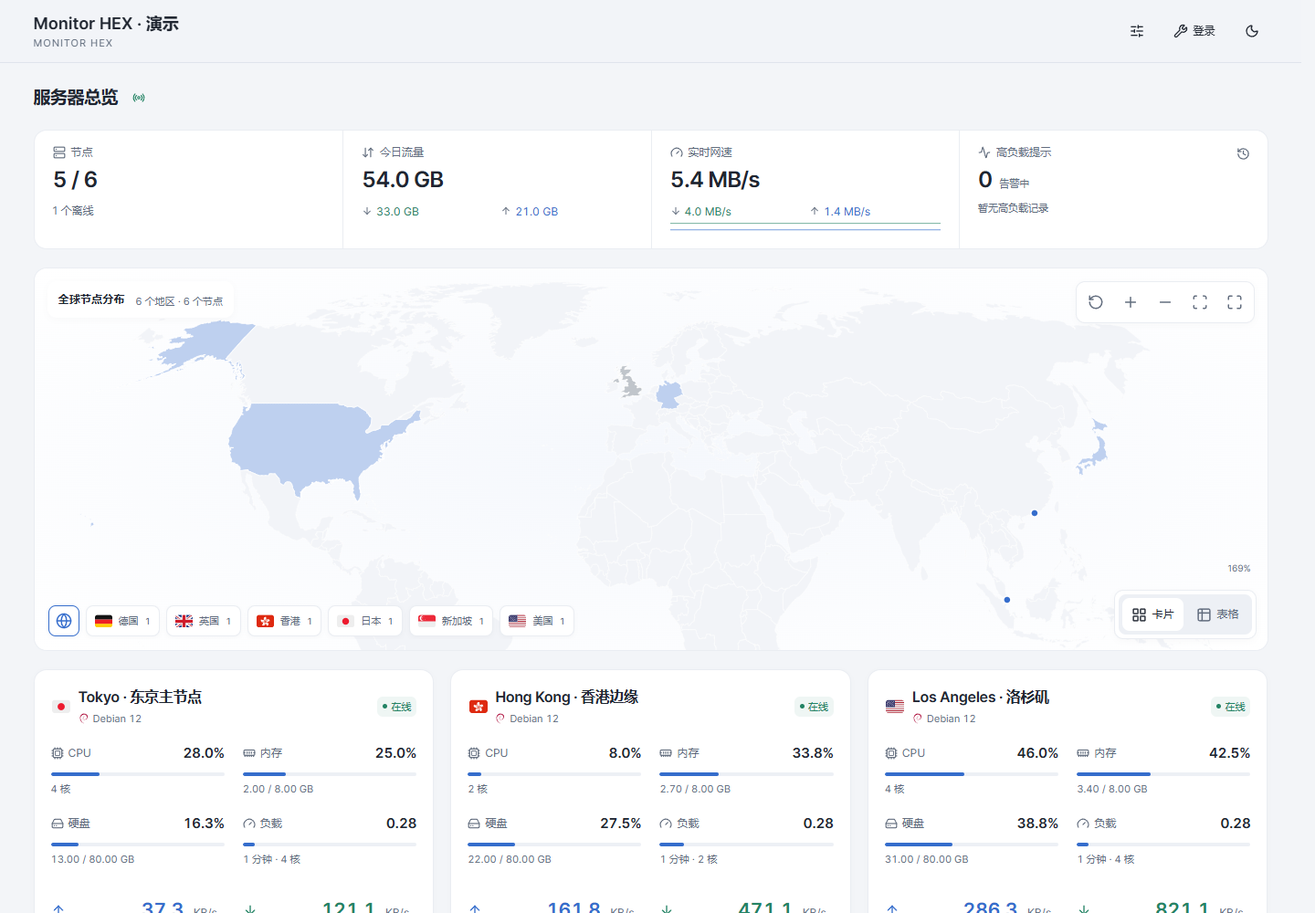
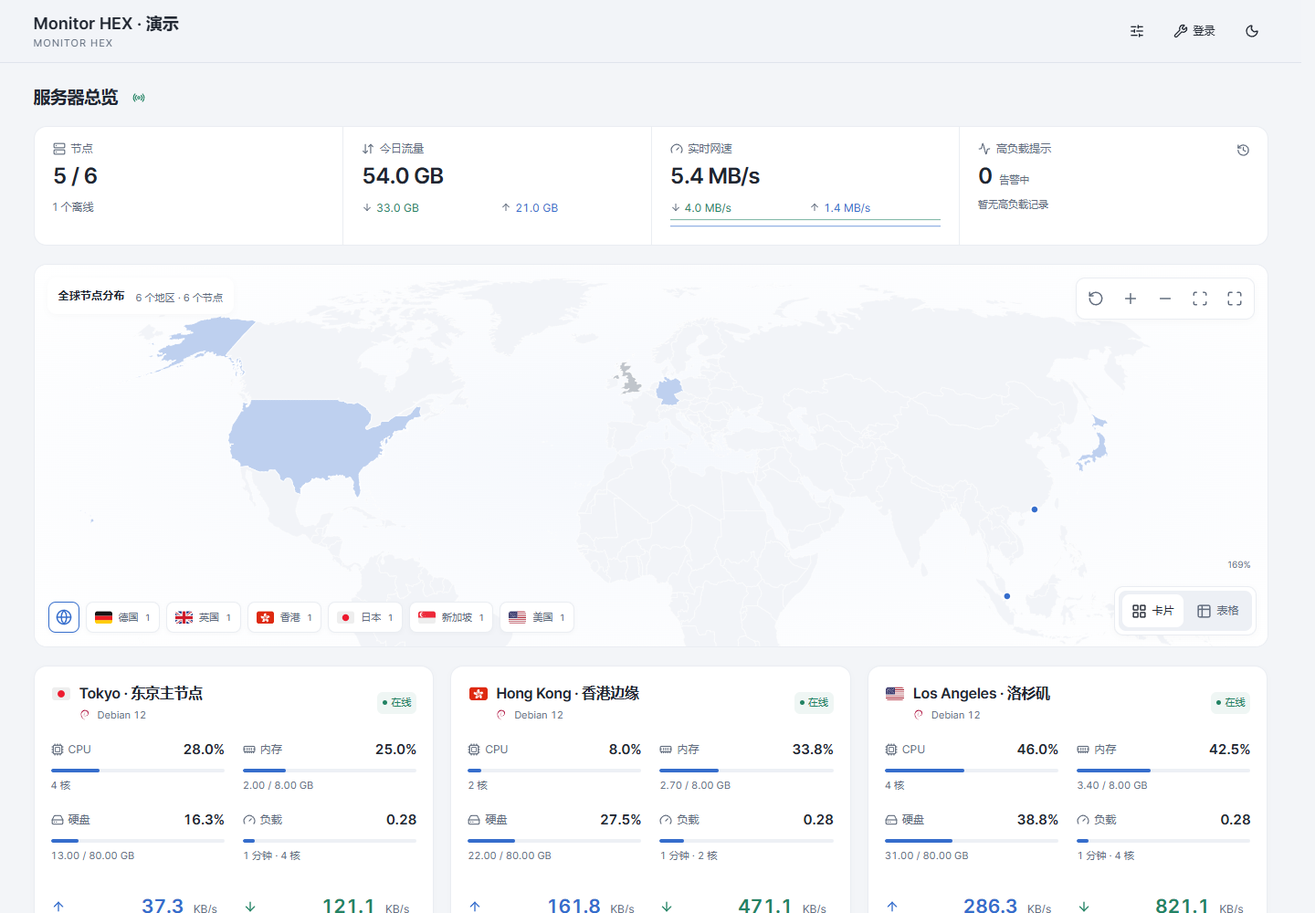
Add scoped display presets and refine settings usability for v0.0.15

diff --git a/src/components/Preferences.tsx b/src/components/Preferences.tsx
@@ -1,8 +1,17 @@
 import {Select} from '@/components/ui/select'
 import { tr, getLanguage, subscribeLanguage, setLanguage } from '../lib/i18n.ts'
-import {X, Circle, Minus, BarChart3, Hash, Rows2, Rows3} from 'lucide-react';
+import {X, Check, Circle, Minus, BarChart3, Hash, Rows2, Rows3} from 'lucide-react';
 import { useState, useRef, useEffect, useSyncExternalStore } from 'react';
-import { palettes, graphStyles, moduleLabels, cardInfoLabels, type DisplayPatch, parsePreferences, safeBackground, type Preferences as Prefs } from '@/lib/appearance';
+import { palettes, graphStyles, moduleLabels, cardInfoLabels, type CardInfo, defaultCardInfo, type DisplayPatch, parsePreferences, safeBackground, type Preferences as Prefs } from '@/lib/appearance';
+const slimCardInfo: CardInfo = {...defaultCardInfo,connections:false,uptime:false};
+function InfoPresets({value,onChange,mobile=false}:{value:CardInfo;onChange:(next:CardInfo)=>void;mobile?:boolean}) {
+    const matches=(preset:CardInfo)=>Object.keys(defaultCardInfo).every(key=>value[key as keyof CardInfo]===preset[key as keyof CardInfo]);
+    const full=matches(defaultCardInfo),slim=matches(slimCardInfo);
+    return <div className="info-presets"><div className="preset-heading"><span>{tr("显示预设")}</span><small>{full?tr("完整"):slim?tr("精简"):tr("自定义")}</small></div><div role="group" aria-label={mobile?tr("手机显示预设"):tr("通用显示预设")}>
+      <button aria-pressed={full} onClick={()=>onChange({...defaultCardInfo})}><span>{full&&<Check size={14}/ >}{tr("完整")}</span><small>{tr("显示全部辅助信息")}</small></button>
+      <button aria-pressed={slim} onClick={()=>onChange({...slimCardInfo})}><span>{slim&&<Check size={14}/ >}{tr("精简")}</span><small>{tr("隐藏连接数与在线时长")}</small></button>
+    </div></div>;
+}
 function BackgroundInput({ value, onChange }: {
     value: string;
     onChange: (url: string) => void;
@@ -43,24 +52,18 @@ export function Preferences({ onClose, value, onChange, onGraphChange, onDisplay
     return <dialog ref={dialog} className="settings-drawer" aria-label={tr("外观设置")} onCancel={onClose}><section className="preferences" aria-label={tr("外观设置")}>
     <div className="settings-top"><h2>{tr("外观设置")}</h2><button aria-label={tr("关闭设置")} title={tr("关闭设置")} onClick={onClose}><X size={20}/></button></div>
     <div className="settings-language"><span>语言 / Language</span><div role="group" aria-label="Language / 语言"><button lang="zh-CN" aria-pressed={language==='zh'} onClick={()=>setLanguage('zh')}>简体中文</button><button lang="en" aria-pressed={language==='en'} onClick={()=>setLanguage('en')}>English</button></div></div>
-    <p className="preferences-note">{tr("即时预览；未单独修改的选项跟随站点默认")}</p>
-    <nav className="settings-nav" aria-label={tr("设置分类")}><button onClick={()=>jump('appearance')}>{tr("外观")}</button><button onClick={()=>jump('home')}>{tr("显示内容")}</button><button onClick={()=>jump('alerts')}>{tr("提醒")}</button></nav>
-    <fieldset data-settings="appearance"><legend>{tr("全局外观")}</legend><div className="preference-grid"><div className="visual-preference"><span>{tr("主题配色")}</span><div className="palette-options" role="group" aria-label={tr("主题配色")}>{Object.entries(palettes).map(([k,v],i)=><button key={k} title={tr(v)} aria-label={tr(v)} aria-pressed={value.palette===k} style={{'--swatch':['#356dcc','#167e90','#b86b3e','#238364','#8664c5','#b45289'][i]} as React.CSSProperties} onClick={()=>patch({palette:k as Prefs['palette']})}><i/></button>)}</div></div>
+    <p className="preferences-note">{tr("仅保存在当前浏览器；未修改的选项跟随站点默认。")}</p>
+    <nav className="settings-nav" aria-label={tr("设置分类")}><button onClick={()=>jump('appearance')}>{tr("外观")}</button><button onClick={()=>jump('card-info')}>{tr("显示内容")}</button><button onClick={()=>jump('alerts')}>{tr("提醒")}</button></nav>
+    <fieldset data-settings="appearance"><legend>{tr("常用外观")}</legend><div className="preference-grid"><div className="visual-preference"><span>{tr("主题配色")}</span><div className="palette-options" role="group" aria-label={tr("主题配色")}>{Object.entries(palettes).map(([k,v],i)=><button key={k} title={tr(v)} aria-label={tr(v)} aria-pressed={value.palette===k} style={{'--swatch':['#356dcc','#167e90','#b86b3e','#238364','#8664c5','#b45289'][i]} as React.CSSProperties} onClick={()=>patch({palette:k as Prefs['palette']})}><i/></button>)}</div></div>
       <label>{tr("明暗模式")}<Select aria-label={tr("明暗模式")} value={value.appearance} onChange={e => patch({ appearance: e.target.value as Prefs['appearance'] })}><option value="system">{tr("跟随系统")}</option><option value="light">{tr("浅色")}</option><option value="dark">{tr("深色")}</option></Select></label>
-      <div className="visual-preference"><span>{tr("指标样式")}</span><div className="graph-options" role="group" aria-label={tr("指标样式")}>{Object.entries(graphStyles).map(([k,v])=>{const Icon=k==='ring'?Circle:k==='bar'?Minus:k==='columns'?BarChart3:Hash;return <button key={k} aria-label={tr(v)} aria-pressed={value.graph===k} onClick={()=>onGraphChange(k as Prefs['graph'])}><Icon size={22}/><small>{tr(v)}</small></button>})}</div></div>
-      <div className="visual-preference"><span>{tr("卡片密度")}</span><div className="density-options" role="group" aria-label={tr("卡片密度")}>{(['comfortable','compact'] as const).map(k=><button key={k} aria-pressed={value.layout===k} onClick={()=>patch({layout:k})}>{k==='compact'?<Rows3 size={22}/>:<Rows2 size={22}/>}<small>{tr(k==='compact'?"紧凑":"舒适")}</small></button>)}</div></div>
-      <label>{tr("桌面列数")}<Select aria-label={tr("桌面列数")} value={value.desktopColumns} onChange={e=>onDisplayChange({desktopColumns:e.target.value as Prefs['desktopColumns']})}><option value="auto">{tr("自动")}</option>{(['2','3','4'] as const).map(n=><option key={n} value={n}>{tr("{0} 列",n)}</option>)}</Select></label>
-      <label className="check-control"><input type="checkbox" checked={value.showTotals} onChange={e => patch({ showTotals: e.target.checked })}/>{tr("显示已用 / 总容量")}</label>
-      <label className="check-control"><input type="checkbox" checked={value.icons} onChange={e => patch({ icons: e.target.checked })}/>{tr("国旗与系统图标")}</label>
     </div></fieldset>
-
-
-
-    <fieldset data-settings="home"><legend>{tr("首页模块")}</legend><div className="module-switches">{Object.entries(moduleLabels).filter(([key])=>key!=="busiest").map(([key, label]) => <label className="check-control" key={key}><input type="checkbox" checked={value.modules[key as keyof typeof moduleLabels]} onChange={e => patch({ modules: { ...value.modules, [key]: e.target.checked } })}/>{tr(label)}</label>)}</div></fieldset>
-    <fieldset data-settings="card-info"><legend>{tr("卡片信息")}</legend><p className="preferences-note">{tr("仅影响首页卡片，详情页保留完整资料。")}</p><div className="card-info-switches" role="group" aria-label={tr("通用卡片信息")}>{Object.entries(cardInfoLabels).map(([key,label])=><label className="check-control" key={key}><input type="checkbox" checked={value.cardInfo[key as keyof Prefs['cardInfo']]} onChange={e=>onDisplayChange({cardInfo:{[key]:e.target.checked}})}/>{tr(label)}</label>)}</div>
+    <fieldset data-settings="card-info"><legend>{tr("卡片信息")}</legend><p className="preferences-note">{tr("仅影响首页卡片，详情页保留完整资料。")}</p><InfoPresets value={value.cardInfo} onChange={cardInfo=>onDisplayChange({cardInfo})}/><div className="card-info-switches" role="group" aria-label={tr("通用卡片信息")}>{Object.entries(cardInfoLabels).map(([key,label])=><label className="check-control" key={key}><input type="checkbox" checked={value.cardInfo[key as keyof Prefs['cardInfo']]} onChange={e=>onDisplayChange({cardInfo:{[key]:e.target.checked}})}/>{tr(label)}</label>)}</div>
     <div className="mobile-info-control"><label>{tr("手机显示")}<Select aria-label={tr("手机显示")} value={value.mobileInfoMode} onChange={e=>onDisplayChange({mobileInfoMode:e.target.value as Prefs['mobileInfoMode'],...(e.target.value==='custom' && value.mobileCardInfo===null?{mobileCardInfo:{...value.cardInfo}}:{})})}><option value="follow">{tr("跟随通用设置")}</option><option value="custom">{tr("单独设置")}</option></Select></label></div>
-    {value.mobileInfoMode==='custom' && <div className="mobile-info-options"><p className="preferences-note">{tr("仅影响宽度不超过 720px 的首页卡片。")}</p><div className="card-info-switches" role="group" aria-label={tr("手机卡片信息")}>{Object.entries(cardInfoLabels).map(([key,label])=><label className="check-control" key={key}><input type="checkbox" checked={(value.mobileCardInfo || value.cardInfo)[key as keyof Prefs['cardInfo']]} onChange={e=>onDisplayChange({mobileCardInfo:{...(value.mobileCardInfo || value.cardInfo),[key]:e.target.checked}})}/>{tr(label)}</label>)}</div></div>}
-    </fieldset>
+    {value.mobileInfoMode==='follow' && <p className="preferences-note mobile-follow-note">{tr("手机正在使用上方通用设置；切换为单独设置后可独立调整。")}</p>}
+    {value.mobileInfoMode==='custom' && <div className="mobile-info-options"><InfoPresets mobile value={value.mobileCardInfo || value.cardInfo} onChange={mobileCardInfo=>onDisplayChange({mobileCardInfo})}/><p className="preferences-note">{tr("仅影响宽度不超过 720px 的首页卡片。")}</p><div className="card-info-switches" role="group" aria-label={tr("手机卡片信息")}>{Object.entries(cardInfoLabels).map(([key,label])=><label className="check-control" key={key}><input type="checkbox" checked={(value.mobileCardInfo || value.cardInfo)[key as keyof Prefs['cardInfo']]} onChange={e=>onDisplayChange({mobileCardInfo:{...(value.mobileCardInfo || value.cardInfo),[key]:e.target.checked}})}/>{tr(label)}</label>)}</div></div>}
+    <div className="card-layout-controls"><div className="preference-grid">      <div className="visual-preference"><span>{tr("卡片密度")}</span><div className="density-options" role="group" aria-label={tr("卡片密度")}>{(['comfortable','compact'] as const).map(k=><button key={k} aria-pressed={value.layout===k} onClick={()=>patch({layout:k})}>{k==='compact'?<Rows3 size={22}/>:<Rows2 size={22}/>}<small>{tr(k==='compact'?"紧凑":"舒适")}</small></button>)}</div></div>      <label>{tr("桌面列数")}<Select aria-label={tr("桌面列数")} value={value.desktopColumns} onChange={e=>onDisplayChange({desktopColumns:e.target.value as Prefs['desktopColumns']})}><option value="auto">{tr("自动")}</option>{(['2','3','4'] as const).map(n=><option key={n} value={n}>{tr("{0} 列",n)}</option>)}</Select></label></div></div></fieldset>
+    <fieldset data-settings="indicators"><legend>{tr("指标与图标")}</legend><div className="preference-grid">      <div className="visual-preference"><span>{tr("指标样式")}</span><div className="graph-options" role="group" aria-label={tr("指标样式")}>{Object.entries(graphStyles).map(([k,v])=>{const Icon=k==='ring'?Circle:k==='bar'?Minus:k==='columns'?BarChart3:Hash;return <button key={k} aria-label={tr(v)} aria-pressed={value.graph===k} onClick={()=>onGraphChange(k as Prefs['graph'])}><Icon size={22}/><small>{tr(v)}</small></button>})}</div></div>      <label className="check-control"><input type="checkbox" checked={value.showTotals} onChange={e => patch({ showTotals: e.target.checked })}/>{tr("显示已用 / 总容量")}</label>      <label className="check-control"><input type="checkbox" checked={value.icons} onChange={e => patch({ icons: e.target.checked })}/>{tr("国旗与系统图标")}</label></div></fieldset>
+    <fieldset data-settings="home"><legend>{tr("首页模块")}</legend><div className="module-switches">{Object.entries(moduleLabels).filter(([key])=>key!=="busiest").map(([key, label]) => <label className="check-control" key={key}><input type="checkbox" checked={value.modules[key as keyof typeof moduleLabels]} onChange={e => patch({ modules: { ...value.modules, [key]: e.target.checked } })}/>{tr(label)}</label>)}</div></fieldset>
     <fieldset data-settings="routes"><legend>{tr("线路")}</legend><div className="preference-grid"><label>{tr("首页线路数量")}<Select aria-label={tr("首页线路数量")} value={value.homeRoutes} onChange={e=>patch({homeRoutes:Number(e.target.value)})}>{[1,2,3].map(n=><option key={n} value={n}>{n}</option>)}</Select></label><label>{tr("主要探测线路")}<Select aria-label={tr("主要探测线路")} value={value.probe} onChange={e=>patch({probe:e.target.value})}><option value="auto">{tr("各节点首条线路")}</option>{[...probes].map(([id,name])=><option key={id} value={id}>{name}</option>)}{value.probe!=="auto"&&!probes.has(Number(value.probe))&&<option value={value.probe}>{tr("线路")}{value.probe}{tr("（等待数据）")}</option>}</Select></label></div><p className="preferences-note">{tr("节点独立选择优先于全局线路；其余线路可在详情查看。")}</p></fieldset>
     <fieldset data-settings="alerts"><legend>{tr("提醒")}</legend><label className="check-control"><input type="checkbox" checked={value.modules.busiest} onChange={e=>patch({modules:{...value.modules,busiest:e.target.checked}})}/>{tr("高负载提示")}</label><p className="preferences-note">{tr("CPU 达到 85% 时记录，低于 80% 时标记恢复。记录仅保存在当前浏览器。")}</p></fieldset>
     <details className="advanced-appearance"><summary>{tr("高级外观")}</summary>    <fieldset><legend>{tr("背景与质感")}</legend>
@@ -74,7 +77,7 @@ export function Preferences({ onClose, value, onChange, onGraphChange, onDisplay
         {range(tr("卡片不透明度"), 'cardOpacity', 55, 100, '%')}{range(tr("卡片模糊"), 'cardBlur', 0, 24, 'px')}
       </div><p className="preferences-note">{tr("手机端会降低模糊强度。外部背景图片仅在设置后加载。")}</p>
     </fieldset></details>
-    <div className="settings-reset"><h3>{tr("偏好管理")}</h3><p className="preferences-note">{tr("恢复外观仅重置配色、背景与样式；全部重置还会清空线路偏好和筛选。")}</p>
+    <div className="settings-reset"><h3>{tr("偏好管理")}</h3><p className="preferences-note">{tr("恢复外观保留卡片信息、手机方案与列数；全部重置将恢复站点默认并清空线路偏好和筛选。")}</p>
     <div className="preference-actions">
       <button onClick={() => { const url = URL.createObjectURL(new Blob([JSON.stringify(Object.fromEntries(Object.entries(value).filter(([key])=>!["skin","cardLayout","mobileLayout"].includes(key))), null, 2)], { type: 'application/json' })); const a = document.createElement('a'); a.href = url; a.download = 'monitor-hex-preferences.json'; a.click(); setTimeout(() => URL.revokeObjectURL(url), 1000); setMessage(tr("外观偏好已导出，不包含节点或账号信息")); }}>{tr("导出外观偏好")}</button>
       <label className="import-control">{tr("导入外观偏好")}<input type="file" accept="application/json,.json" aria-label={tr("导入外观偏好")} onChange={async (e) => {

diff --git a/tests/usability.spec.ts b/tests/usability.spec.ts
@@ -1,0 +1,78 @@
+import {test,expect} from '@playwright/test'
+import {nodes,metrics} from '../scripts/fixtures.mjs'
+import {toggleSettings,visualSelect} from './settings'
+async function setup(page:any){
+ await page.route('**/api/nodes',(r:any)=>r.fulfill({json:{nodes:[{...nodes()[0],remark:'国际线路;Backup;Production',expires_at:'2027-01-01'}]}}))
+ await page.route('**/api/nodes/*/metrics?*',(r:any)=>r.fulfill({json:metrics()}))
+ await page.goto('/');await expect(page.locator('.node-card')).toBeVisible()
+}
+test('presets derive from saved switches, preserve unrelated settings and survive export import',async({page})=>{
+ await setup(page);await toggleSettings(page)
+ const presets=page.getByRole('group',{name:'通用显示预设',exact:true}),info=page.getByRole('group',{name:'通用卡片信息',exact:true})
+ await page.getByLabel('明暗模式',{exact:true}).selectOption('dark');await page.getByLabel('桌面列数',{exact:true}).selectOption('4')
+ await presets.getByRole('button',{name:/精简/}).click()
+ await expect(info.getByLabel('TCP／UDP',{exact:true})).not.toBeChecked();await expect(info.getByLabel('在线时长',{exact:true})).not.toBeChecked()
+ for(const name of ['本月用量','到期信息','备注标签','价格'])await expect(info.getByLabel(name,{exact:true})).toBeChecked()
+ await expect(page.getByLabel('明暗模式',{exact:true})).toHaveValue('dark');await expect(page.getByLabel('桌面列数',{exact:true})).toHaveValue('4')
+ await info.getByLabel('价格',{exact:true}).uncheck();await expect(page.locator('.preset-heading small').first()).toHaveText('自定义')
+ const download=page.waitForEvent('download');await page.getByRole('button',{name:'导出外观偏好',exact:true}).click();const path=await (await download).path()
+ await page.getByRole('button',{name:'重置全部偏好',exact:true}).click();await expect(presets.getByRole('button',{name:/完整/})).toHaveAttribute('aria-pressed','true')
+ await page.getByLabel('导入外观偏好',{exact:true}).setInputFiles(path!);await expect(page.locator('.preset-heading small').first()).toHaveText('自定义')
+ await page.reload();await toggleSettings(page);await expect(page.locator('.preset-heading small').first()).toHaveText('自定义')
+ await presets.getByRole('button',{name:/精简/}).click();await page.getByRole('button',{name:'恢复默认外观',exact:true}).click()
+ await expect(presets.getByRole('button',{name:/精简/})).toHaveAttribute('aria-pressed','true')
+})
+test('independent mobile preset does not change general switches and follows again',async({page})=>{
+ await page.setViewportSize({width:390,height:844});await setup(page);await toggleSettings(page)
+ await page.getByLabel('手机显示',{exact:true}).selectOption('custom')
+ await page.getByRole('group',{name:'手机显示预设',exact:true}).getByRole('button',{name:/精简/}).click()
+ await expect(page.getByRole('group',{name:'通用卡片信息',exact:true}).getByLabel('TCP／UDP',{exact:true})).toBeChecked()
+ await toggleSettings(page);await expect(page.locator('.node-connections')).toHaveCount(0)
+ await page.setViewportSize({width:721,height:844});await expect(page.locator('.node-connections')).toBeVisible()
+ await page.setViewportSize({width:720,height:844});await expect(page.locator('.node-connections')).toHaveCount(0)
+ await page.reload();await toggleSettings(page);await expect(page.getByRole('group',{name:'手机显示预设',exact:true}).getByRole('button',{name:/精简/})).toHaveAttribute('aria-pressed','true')
+ await page.getByLabel('手机显示',{exact:true}).selectOption('follow');await expect(page.locator('.mobile-follow-note')).toBeVisible()
+ await toggleSettings(page);await expect(page.locator('.node-connections')).toBeVisible()
+})
+for(const [width,height] of [[320,568],[390,844],[430,932],[844,390],[720,900],[721,900],[1440,1000]])test(`presets and settings fit ${width}x${height}`,async({page})=>{
+ test.setTimeout(90000);await page.setViewportSize({width,height})
+ for(const language of ['zh','en'])for(const appearance of ['light','dark']){
+  await page.addInitScript(({language,appearance})=>{localStorage.setItem('monitor-next-language',language);localStorage.setItem('monitor-next',JSON.stringify({_storageVersion:1,appearance}))},{language,appearance})
+  await setup(page);await toggleSettings(page);const dialog=page.locator('.settings-drawer')
+  const group=page.getByRole('group',{name:language==='zh'?'通用显示预设':'General display presets',exact:true})
+  for(const preset of [0,1]){
+   await group.getByRole('button').nth(preset).click()
+   for(const graph of ['bar','columns','ring','minimal']){
+    await visualSelect(page,'graph',graph);await toggleSettings(page)
+    expect(await page.evaluate(()=>document.documentElement.scrollWidth<=innerWidth)).toBeTruthy()
+    await page.evaluate(()=>scrollTo(0,0))
+    if(width===390){for(const r of (await page.locator('.node-card .resource').all()).slice(0,2)){const b=(await r.boundingBox())!;expect(b.y+b.height).toBeLessThanOrEqual(844)}}
+    await toggleSettings(page)
+   }
+  }
+  expect(await dialog.evaluate(el=>el.scrollWidth<=el.clientWidth)).toBeTruthy()
+  await dialog.locator('.preference-actions button').last().scrollIntoViewIfNeeded();await expect(dialog.locator('.settings-top button')).toBeInViewport()
+  await page.keyboard.press('Tab');expect(await dialog.evaluate(el=>el.contains(document.activeElement))).toBeTruthy()
+  await page.keyboard.press('Escape');await expect(dialog).not.toBeVisible()
+  await expect(page.locator('header').getByRole('button',{name:language==='zh'?'外观设置':'Appearance',exact:true})).toBeFocused()
+ }
+})
+test('preset keyboard controls keep scroll, target sizes and readable contrast',async({page})=>{
+ await setup(page);await toggleSettings(page)
+ const group=page.getByRole('group',{name:'通用显示预设',exact:true}),slim=group.getByRole('button',{name:/精简/})
+ await slim.focus();const before=await page.locator('.settings-drawer').evaluate(el=>el.scrollTop)
+ await page.keyboard.press('Space');await expect(slim).toHaveAttribute('aria-pressed','true')
+ expect(Math.abs(await page.locator('.settings-drawer').evaluate(el=>el.scrollTop)-before)).toBeLessThanOrEqual(2)
+ for(const b of await group.getByRole('button').all()){const rect=(await b.boundingBox())!;expect(rect.height).toBeGreaterThanOrEqual(44);expect(rect.width).toBeGreaterThanOrEqual(44)}
+ for(const mode of ['light','dark']){
+  await page.getByLabel('明暗模式',{exact:true}).selectOption(mode)
+  const ratios=await page.locator('.settings-drawer').evaluate(el=>{
+   const ctx=document.createElement('canvas').getContext('2d')!;
+   function rgb(color:string){ctx.clearRect(0,0,1,1);ctx.fillStyle=color;ctx.fillRect(0,0,1,1);return [...ctx.getImageData(0,0,1,1).data].slice(0,3)}
+   function lum(c:number[]){const a=c.map(v=>{v/=255;return v<=.04045?v/12.92:((v+.055)/1.055)**2.4});return a[0]*.2126+a[1]*.7152+a[2]*.0722}
+   const style=getComputedStyle(el),bg=lum(rgb(style.backgroundColor));return ['--foreground','--muted-foreground','--tone'].map(key=>{const l=lum(rgb(style.getPropertyValue(key)));return (Math.max(l,bg)+.05)/(Math.min(l,bg)+.05)})
+  });for(const ratio of ratios)expect(ratio).toBeGreaterThanOrEqual(4.5)
+ }
+ await page.emulateMedia({reducedMotion:'reduce'});await toggleSettings(page)
+ expect(await page.locator('.node-card').evaluate(el=>getComputedStyle(el).transitionDuration)).toBe('0s')
+})

diff --git a/src/styles/home.css b/src/styles/home.css
@@ -196,3 +196,42 @@
 .detail-refresh[aria-busy=true] {opacity:.5;cursor:progress}
 @media(max-width:899px){.history-loading {height:430px}}
 @media(max-width:600px){.history-loading {height:382px}}
+/* Reading hierarchy and explicit, independently scoped display presets. */
+.overview-heading {margin-bottom:16px}
+.node-card .node-heading {gap:8px}
+.node-card .node-symbol {display:flex;align-items:center;justify-content:center;align-self:flex-start;margin-top:4px;flex-shrink:0}
+.node-card .node-identity p {display:flex;align-items:center;gap:4px}
+.node-card .node-identity p svg,.node-card .node-identity p img {flex-shrink:0}
+.node-card .status-pill {min-height:24px;display:inline-flex;align-items:center;line-height:1.4}
+.node-card .node-footer {align-items:center}
+.node-card .node-price,.node-card .node-remarks .detail-remark-tag {line-height:1.5;font-weight:400}
+.node-card .node-price {min-height:24px;align-content:center}
+.node-card .node-remarks .detail-remark-tag {min-height:24px;display:inline-flex;align-items:center}
+.settings-drawer .info-presets {margin-top:20px}
+.settings-drawer .preset-heading {display:flex;align-items:center;justify-content:space-between;gap:12px;margin-bottom:8px;font-size:12px}
+.settings-drawer .preset-heading small {color:var(--muted-foreground);font-size:11px}
+.settings-drawer .info-presets [role=group] {display:grid;grid-template-columns:1fr 1fr;gap:8px}
+.settings-drawer .info-presets button {min-width:0;min-height:76px;display:flex;flex-direction:column;align-items:flex-start;gap:6px;padding:12px;border:1px solid var(--muted-foreground);border-radius:10px;background:transparent;text-align:left;color:var(--foreground)}
+.settings-drawer .info-presets button>span {display:flex;align-items:center;gap:5px;min-height:20px;font-size:13px;font-weight:600}
+.settings-drawer .info-presets button small {font-size:11px;line-height:1.6;color:var(--muted-foreground)}
+.settings-drawer .info-presets button[aria-pressed=true] {border-color:var(--tone);background:var(--tone-soft)}
+.settings-drawer .mobile-follow-note {padding:12px;background:var(--muted);border-radius:8px;margin-top:12px}
+.settings-drawer .mobile-info-options {padding:16px}
+.settings-drawer .mobile-info-options .info-presets {margin-top:0}
+.settings-drawer .card-layout-controls {margin-top:24px;padding-top:20px;border-top:1px solid var(--border)}
+.settings-drawer select {border-color:var(--muted-foreground)}
+.settings-drawer :is(.graph-options,.density-options) button {position:relative}
+.settings-drawer :is(.graph-options,.density-options) button[aria-pressed=true]::after {content:'✓';position:absolute;top:2px;right:5px;font-size:11px}
+.next-theme :is(button,select,input,summary):focus-visible {outline:2px solid var(--tone);outline-offset:3px}
+.settings-drawer button:active:not(:disabled) {background:var(--muted)}
+.settings-drawer button:disabled {opacity:.55;cursor:not-allowed}
+.settings-drawer .preferences {padding-bottom:max(32px,env(safe-area-inset-bottom))}
+.settings-drawer {scroll-padding-block:80px 24px}
+@media(max-width:720px){
+ .overview-heading {margin-bottom:12px}
+ .node-card .node-heading {padding-block:16px}
+ .node-card .node-footer {align-items:start}
+ .node-card .node-timing {gap:8px}
+ .node-card .remark-more {min-width:44px;min-height:44px}
+}
+@media(prefers-reduced-motion:reduce){.next-theme *, .next-theme *::before,.next-theme *::after {animation:none!important;transition:none!important;scroll-behavior:auto!important}}

diff --git a/src/lib/en.ts b/src/lib/en.ts
@@ -1,4 +1,17 @@
 export const english: Record<string, string> = {
+"显示预设": "Display preset",
+"完整": "Full",
+"精简": "Slim",
+"自定义": "Custom",
+"通用显示预设": "General display presets",
+"手机显示预设": "Mobile display presets",
+"显示全部辅助信息": "Show all additional information",
+"隐藏连接数与在线时长": "Hide connections and uptime",
+"常用外观": "Common appearance",
+"指标与图标": "Metrics and icons",
+"仅保存在当前浏览器；未修改的选项跟随站点默认。": "Saved in this browser only. Unchanged options follow site defaults.",
+"手机正在使用上方通用设置；切换为单独设置后可独立调整。": "Mobile uses the general settings above. Choose separate settings to customize it independently.",
+"恢复外观保留卡片信息、手机方案与列数；全部重置将恢复站点默认并清空线路偏好和筛选。": "Reset appearance keeps card information, mobile settings and columns. Reset all restores site defaults and clears route preferences and filters.",
 "暂无可用历史数据": "No history is available.",
 "更新失败，保留上次历史记录。": "Update failed. Showing the last history. ",
 "正在读取历史数据": "Loading history",

diff --git a/REVIEW-v0.0.15.md b/REVIEW-v0.0.15.md
@@ -1,0 +1,50 @@
+# v0.0.15 视觉层级与设置易用性验收
+
+2026-09-21。用户授权实施、验收后直接发布。基线为 v0.0.14（85bf494）生产构建。
+
+## 已交付
+
+- 常用外观与语言优先；卡片预设、逐项开关和手机继承关系紧随其后，再提供密度、列数、指标与图标、首页模块、线路、提醒、高级外观及偏好管理。高级外观仍默认折叠。
+- 完整预设显示现有六项卡片辅助信息；精简仅关闭连接数和在线时长。通用与手机独立方案各自应用，其他开关组合显示自定义。不新增持久化字段，不自动改写旧配置。
+- 补充本浏览器保存、手机跟随关系和恢复范围说明。预设不改变语言、配色、指标样式、列数或地图。
+- 微调首页标题间距，国旗对齐名称首行，统一状态、备注、价格标签节奏。保留原有字体层级和深浅色基础色值；检查后未扩大颜色改动。
+- 预设采用文字、勾号与边框表达选中；指标样式和密度增加勾号；统一键盘焦点，移动端完整备注入口达到 44px，关闭非必要动画时尊重减少动态效果偏好。
+- 继续使用原生模态设置面板及已有滚动锁定，补充滚动定位留白和底部安全区样式。
+
+## 验收结果
+
+| 项目 | 结果 |
+| --- | --- |
+| 静态检查、业务测试、生产构建 | 通过；402 处字面量翻译检查通过 |
+| Chrome 完整回归 | 81/81 通过，含新增易用性 10 项 |
+| Edge 相关回归 | 26/26 通过：易用性、稳定性和语言 |
+| 新功能组合 | 320×568、390×844、430×932、844×390、720×900、721×900、1440×1000；每种均检查中英文、深浅色、完整/精简与四种指标样式 |
+| 首屏 | 390×844 默认视图下，四种指标样式的首卡 CPU、内存均完整可见 |
+| 长文本与信息组合 | 既有长名称、大金额、多备注、64 种信息组合回归通过，无页面横向溢出 |
+| 预设正确性 | 六开关批量设置正确；手动修改标记自定义；刷新、导出导入、恢复外观及全部重置通过 |
+| 手机作用范围 | 独立预设不影响通用设置；720/721 边界正确切换；跟随后重新使用通用信息 |
+| 键盘与面板 | Space 应用预设；面板滚动偏差不超过 2px；Tab 留在模态面板内；Escape 关闭并将焦点交回入口；底部操作可滚动到达、关闭按钮始终可见 |
+| 对比度抽查 | 默认配色的正文、辅助文字、强调色在深浅色卡片背景上均达到 4.5:1；预设和选择框边界使用辅助文字色，焦点使用强调色 |
+| 触控与动态效果 | 预设按钮尺寸至少 44×44px；原有主要控件尺寸回归通过；减少动态效果时卡片过渡为 0s |
+| v0.0.14 保留能力 | 返回原节点、节点重排/删除回退、刷新失败保留图表、重复请求阻止、旧响应隔离、1/6/30/100 节点布局均通过 |
+
+对比度检查限默认配色的指定颜色与背景，不宣称任意外部背景、透明度组合或全部组件完成 WCAG 审计。新增用例按视口、语言、明暗、预设和指标组合验证；其他维度由既有专项测试覆盖。
+
+## 视觉证据与取舍
+
+- [手机浅色设置前后](screenshots/v0.0.15/compare-390-light-settings.png)
+- [手机深色设置前后](screenshots/v0.0.15/compare-390-dark-settings.png)
+- [手机首页前后](screenshots/v0.0.15/compare-390-light-home.png)
+- [深色卡片前后](screenshots/v0.0.15/compare-390-dark-card.png)
+- [精简预设设置](screenshots/v0.0.15/presets-390-light.png)
+- [精简卡片](screenshots/v0.0.15/slim-390-light-card.png)
+
+同目录提供精简预设与卡片深色图。固定数据截图由 scripts/capture-usability.mjs 生成；完整原始对比保存在本地 tests/artifacts/usability，不进入安装包。基线构建保存在其 baseline-dist 下。
+
+视觉复核后将密度与列数放在预设和开关之后，减少常用操作的查找距离；没有进一步压缩卡片字体或放大深浅色差异。截图核对了图标首行对齐、标签布局、标题与主要数值的层级；未对所有字形做像素基线自动认证。
+
+## 发布与验证边界
+
+版本 0.0.15，短名 hex，更新地址 https://github.com/8bitNull/Monitor-Hex。附件 theme.tar.gz 与 theme.tar.gz.sha256。
+
+采用本地演示数据和 Chrome/Edge 视口模拟。实体手机、iOS Safari、动态地址栏、系统虚拟键盘与真实安全区行为未验证，也未进行线上真实后端部署验收。上述项目明确保留为设备验证项，不计作通过；本次不宣称完成全部设备兼容认证。

diff --git a/ACCEPTANCE.md b/ACCEPTANCE.md
@@ -1,10 +1,10 @@
-# Monitor HEX 0.0.14 检查说明
+# Monitor HEX 0.0.15 检查说明
 
 当前源码的检查入口如下。测试使用本地演示数据，不代表已完成真实服务器部署验证。
 
 ## 最近验证
 
-2026-09-21：v0.0.14 静态检查、业务测试、390 处字面量翻译检查与生产构建通过。Chrome 全量 71/71，Edge 稳定性、导航、详情设置与数据新鲜度 27/27。完整记录见 REVIEW-v0.0.14.md。
+2026-09-21：v0.0.15 静态检查、业务测试、402 处字面量翻译检查与生产构建通过。Chrome 全量 81/81，Edge 预设与设置、稳定性、语言 26/26。完整记录见 REVIEW-v0.0.15.md。
 
 ## 自动检查
 
@@ -49,8 +49,10 @@ npm run test:e2e
 
 ## 打包与边界
 
+- `usability.spec.ts`：预设推导、相关设置隔离、刷新与导入导出、手机独立/跟随、七种视口 × 中英文 × 深浅色 × 两种预设 × 四种样式，另检查键盘操作、滚动保持、目标尺寸、默认配色文字对比度与减少动态效果。
+
 `npm run package` 生成 `theme.tar.gz` 和 SHA-256 校验文件。安装包根目录包含 `theme.json`、`dist/`、预览与许可证。
 
 历史范围依赖后端实际保留的数据。高负载事件是浏览器本地记录，仅覆盖页面监测期间，不等同于服务端持续告警。线上数据与后端兼容性仍需部署后核对。
 
-手机测试采用浏览器视口模拟，未进行实体手机或 iOS Safari 验证。完整本版验收记录见 `REVIEW-v0.0.14.md`。
+手机测试采用浏览器视口模拟，未进行实体手机或 iOS Safari 验证。完整本版验收记录见 `REVIEW-v0.0.15.md`。

diff --git a/CHANGELOG.md b/CHANGELOG.md
@@ -1,5 +1,14 @@
 # Monitor HEX 当前版本
 
+## 0.0.15
+
+- 新增完整／精简卡片显示预设，依据当前六项开关显示预设名称，其他组合显示自定义；手机独立方案可单独应用。
+- 设置按常用外观、卡片信息、指标与图标、首页模块、线路、提醒、高级外观和偏好管理组织；预设与信息开关优先展示。
+- 明确本浏览器保存、手机跟随关系与恢复操作范围。旧配置继续保留，无新增持久化字段。
+- 微调首页间距、国旗与标题对齐、备注和价格标签节奏；保留桌面同排等高和手机自然高度。
+- 补充选中勾号、统一键盘焦点、手机备注入口点击区域和减少动态效果支持。
+- 新增预设、持久化、导入导出、手机独立、短屏横屏、键盘及默认配色对比度检查。完整记录见 REVIEW-v0.0.15.md。
+
 ## 0.0.14
 
 - 桌面同排卡片等高，辅助信息区自然靠下；手机保留内容自然高度。
